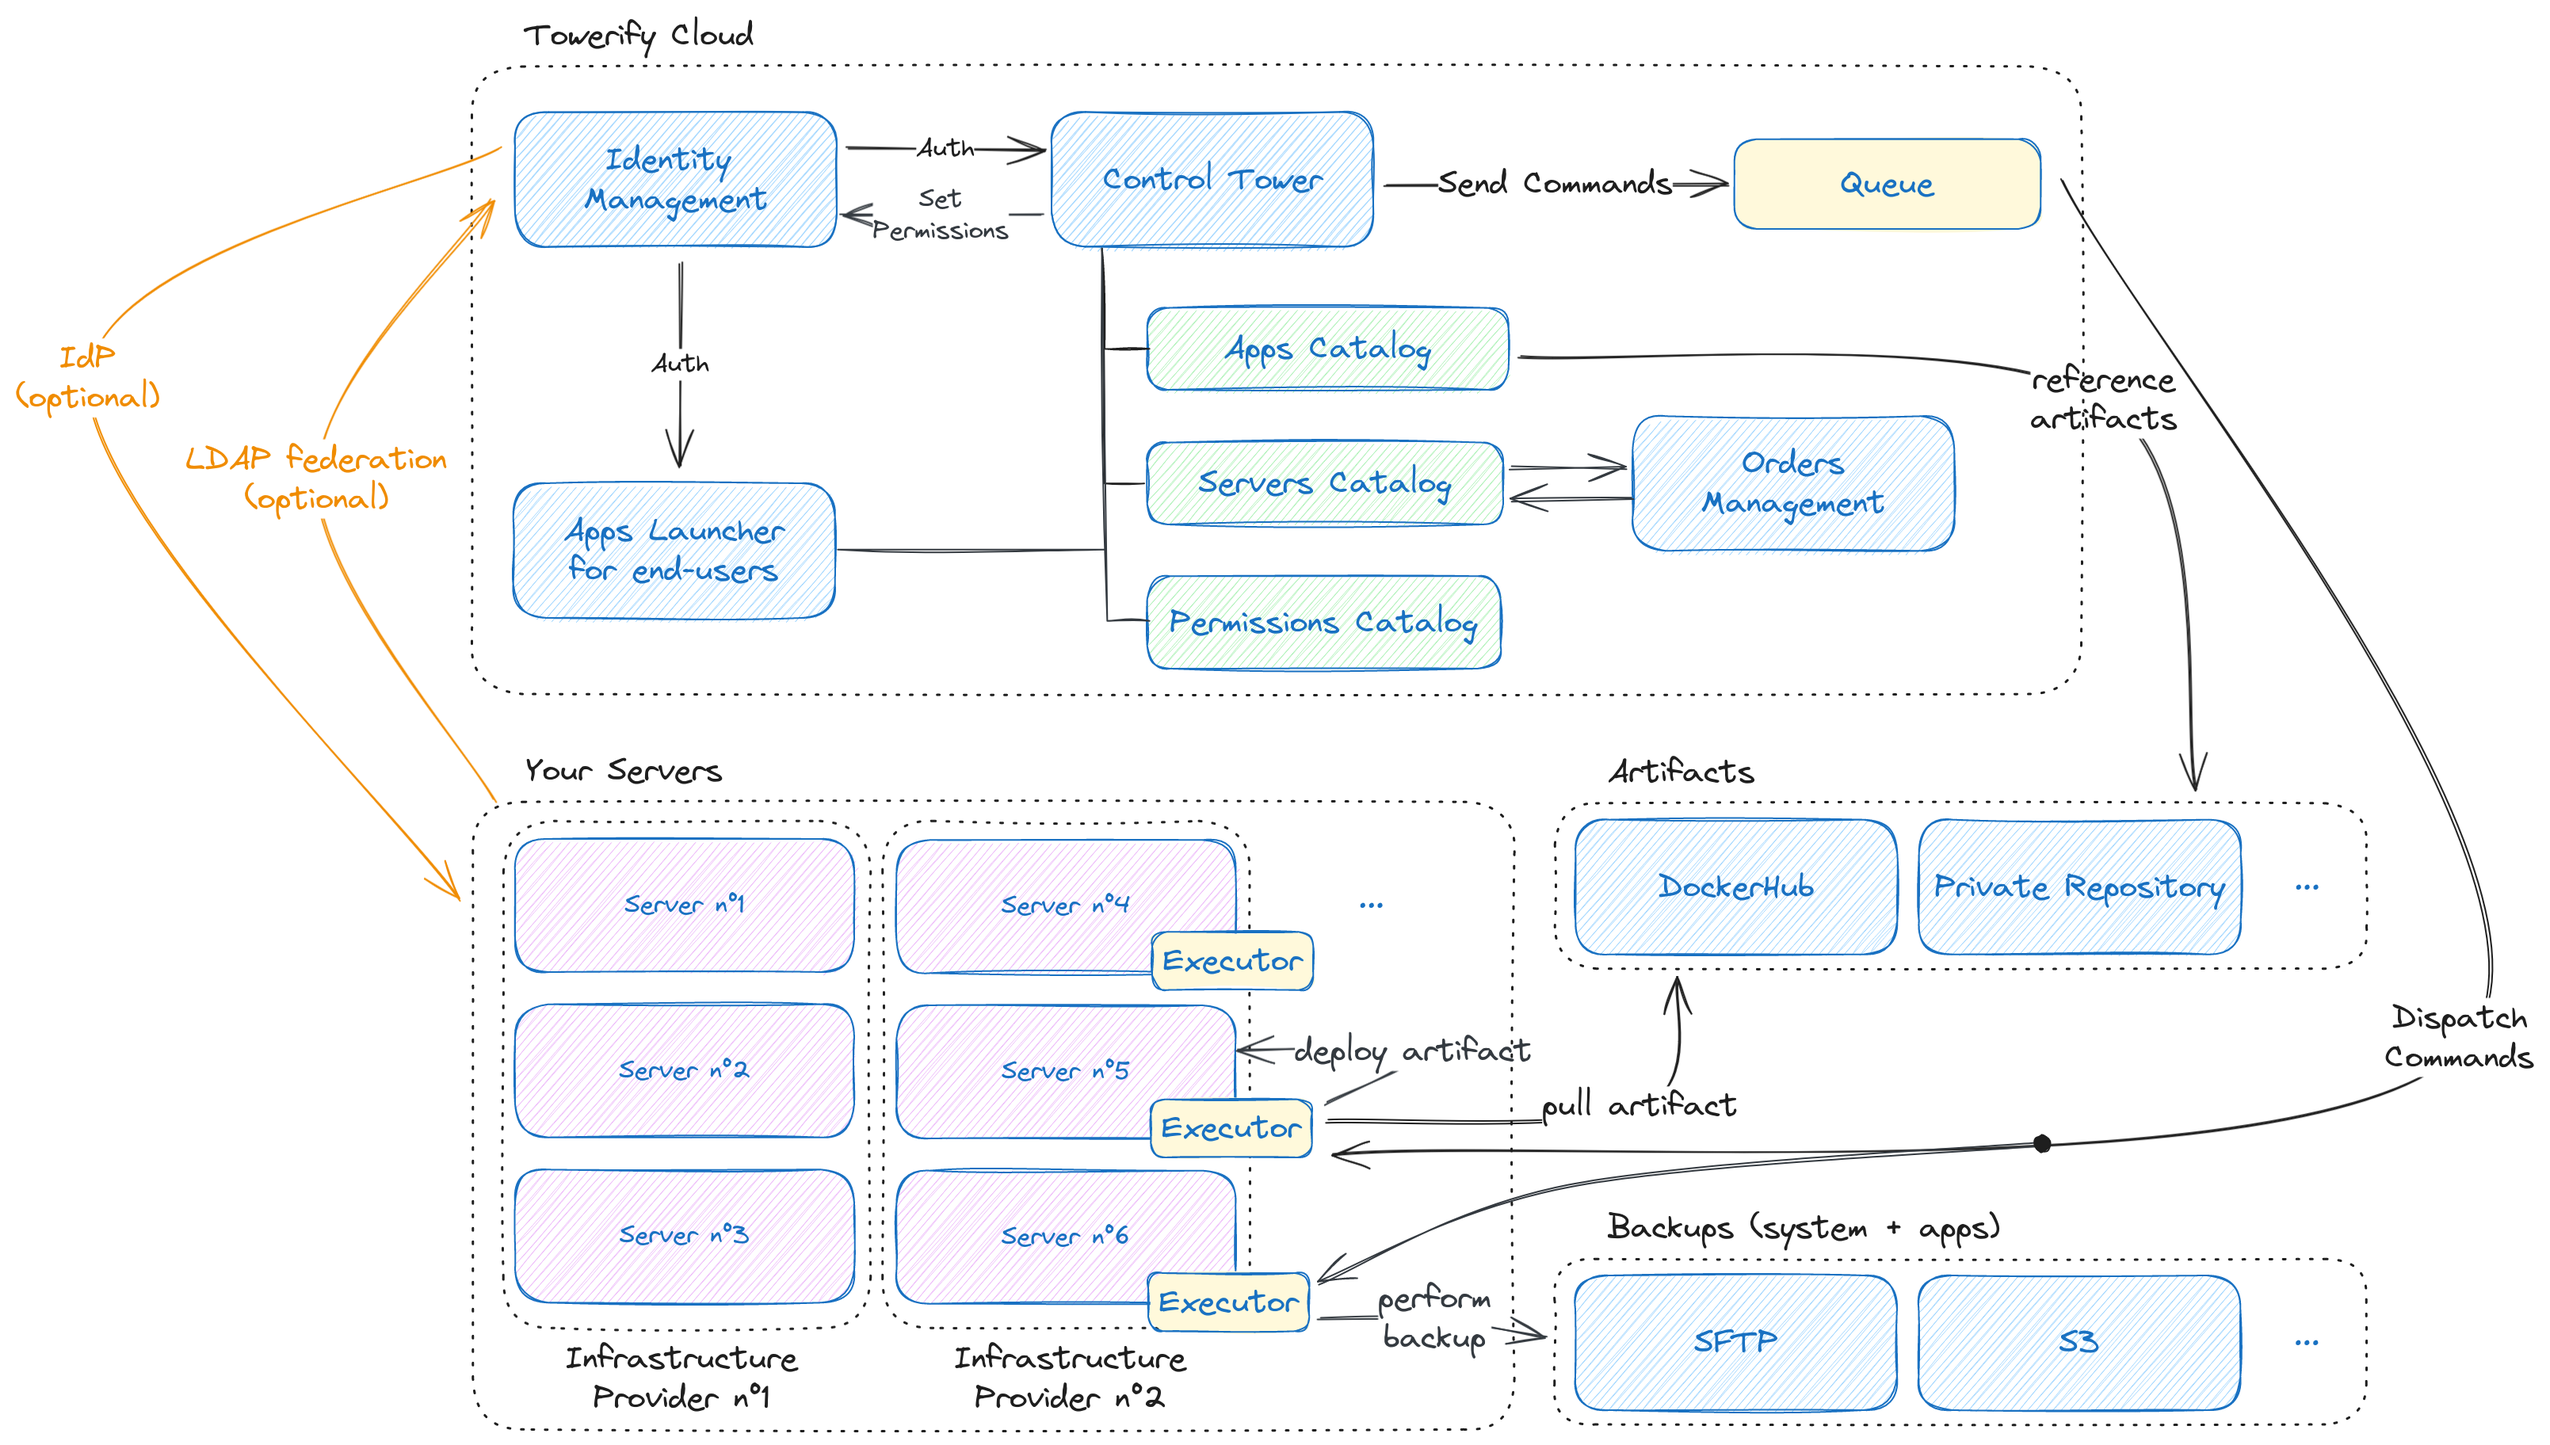
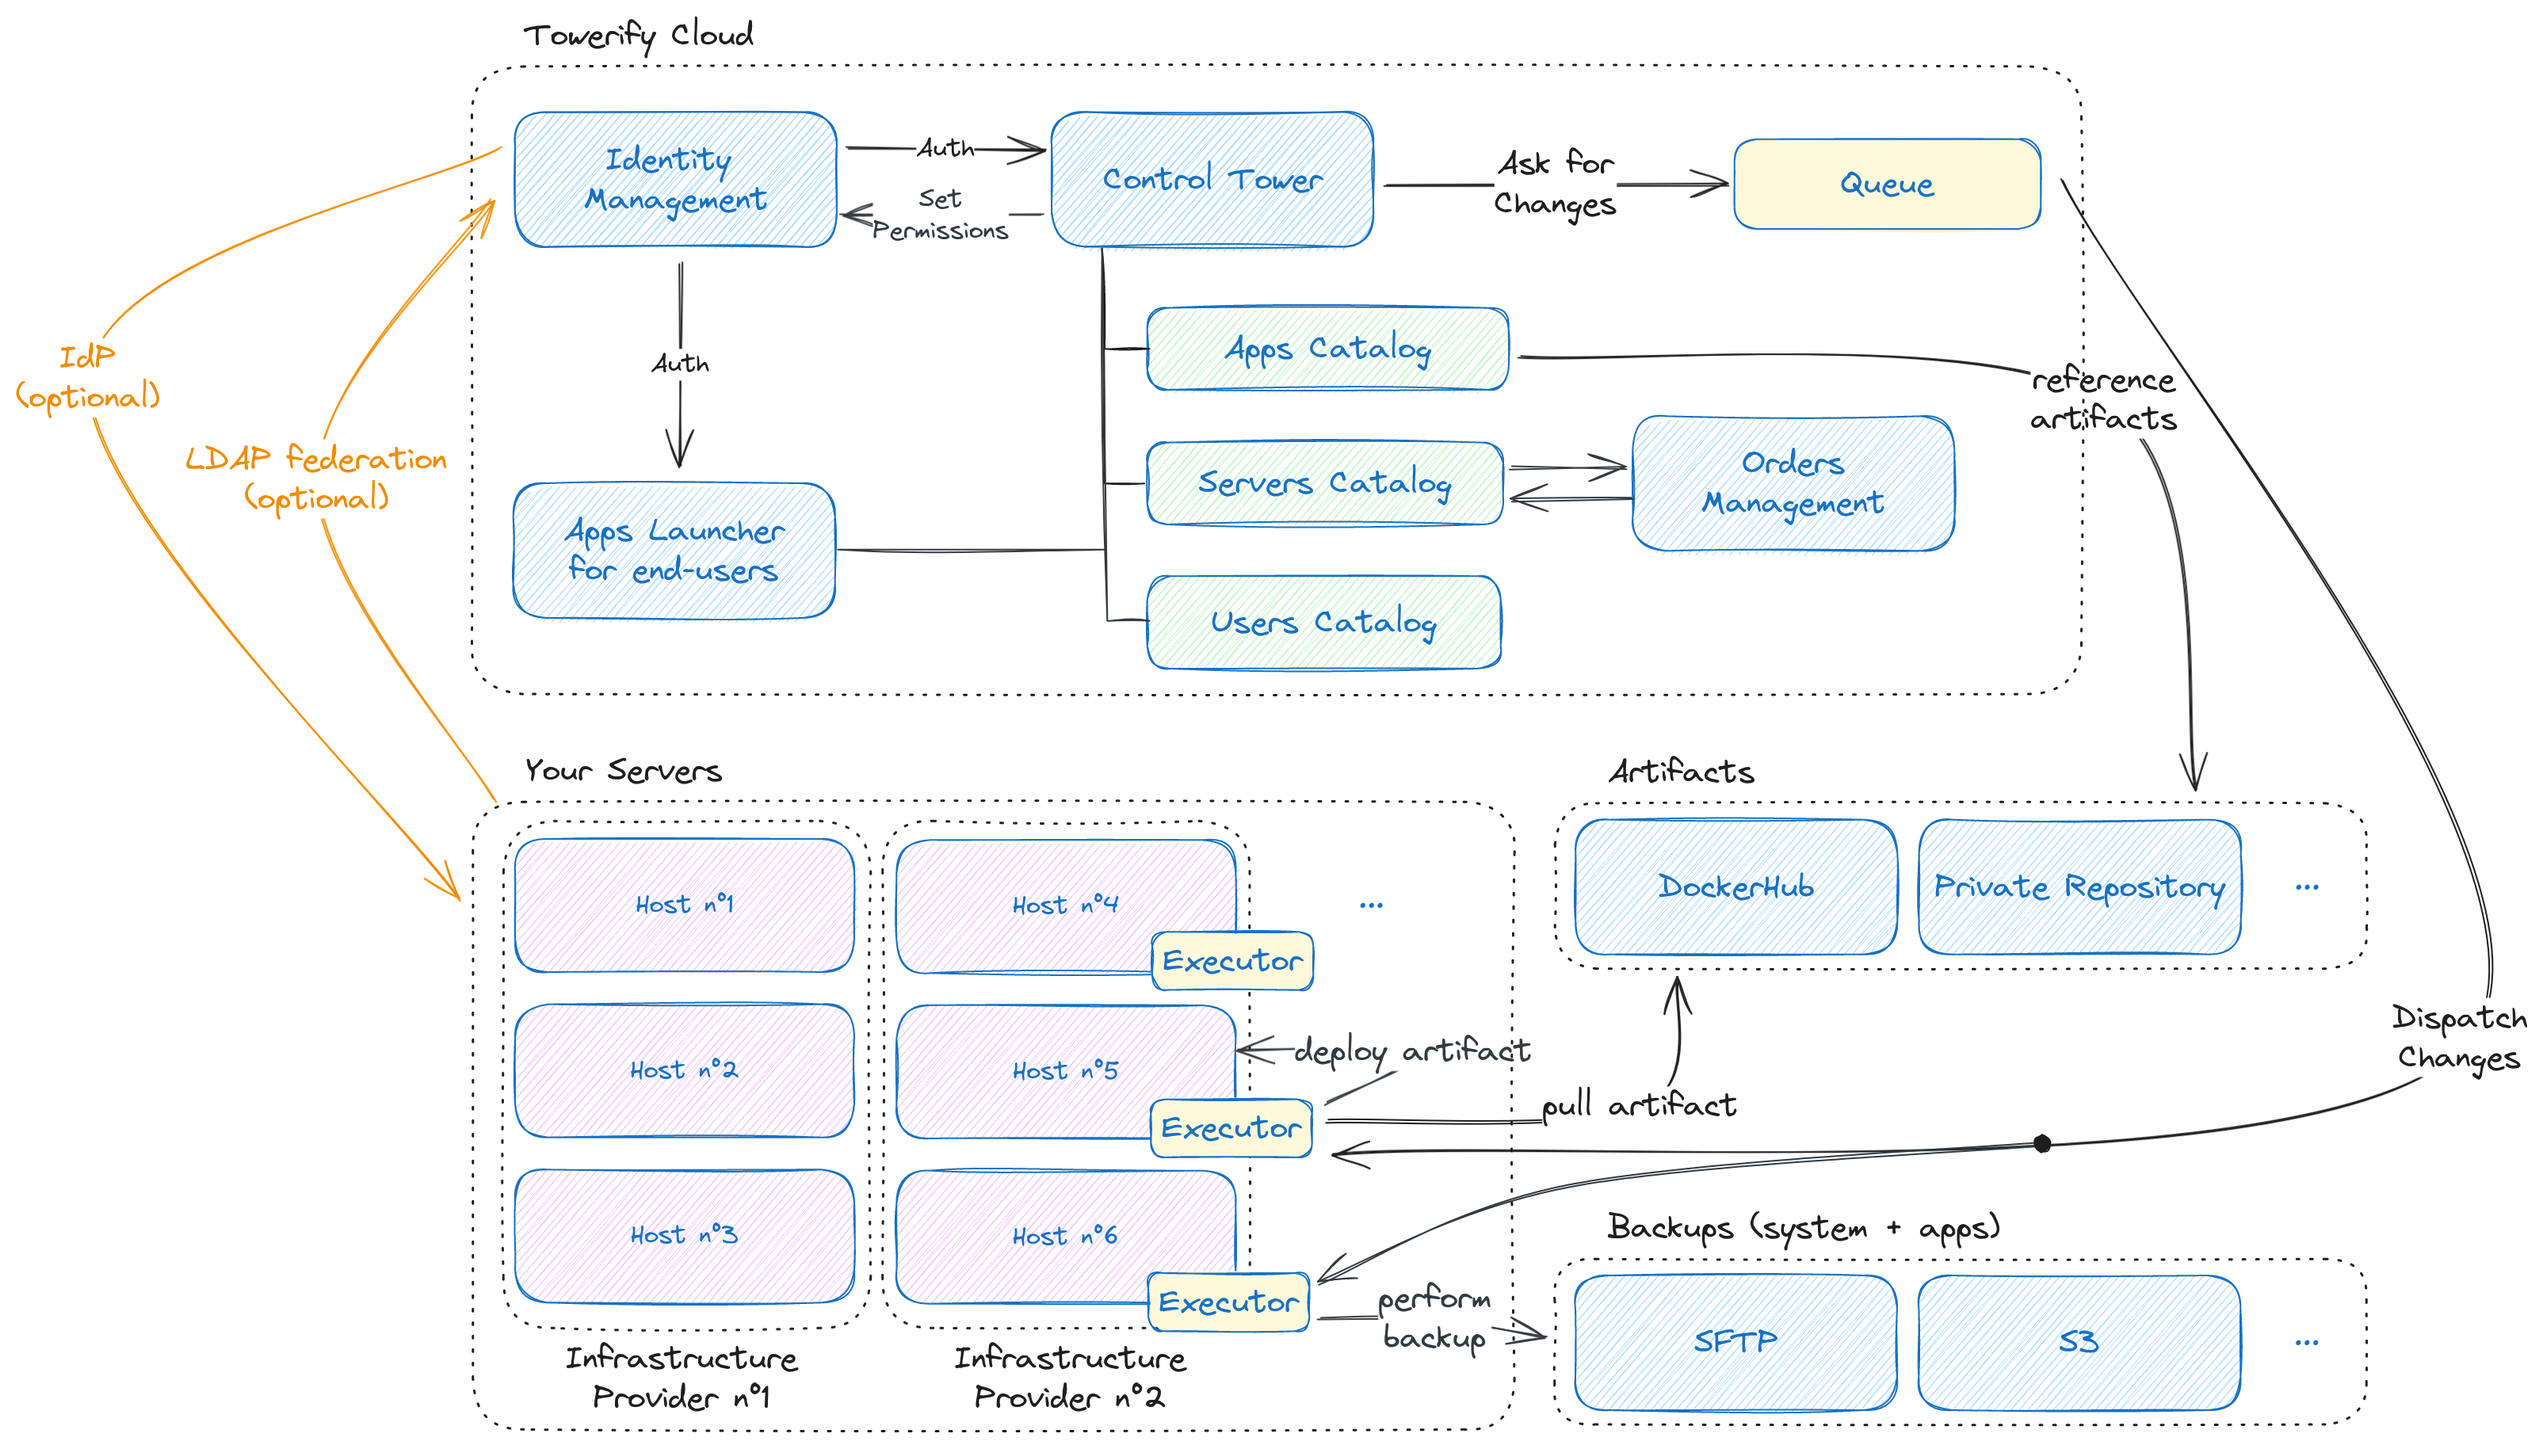
Edit Towerify Cloud 7/n

diff --git a/docs/cloud/how-it-works.md b/docs/cloud/how-it-works.md
@@ -59,10 +59,10 @@ fonctionner.
 Les demandes de changement sont des petits "programmes" décrivant les actions à effectuer sur un hôte pour que celui-ci
 atteigne un état cible.
 
-Les demandes de changement sont émises par un opérateur et placées dans une file d'attente. Cette file d'attente est
-surveillée par une tâche planifiée qui a en charge de choisir la prochaine demande de changement à effectuer et de
-router cette demande vers l'hôte cible. Le choix de la prochaine demande de changement à exécuter est réalisé en
-appliquant le principe "premier arrivé, premier servi" (FIFO).
+Les demandes de changement sont émises par un opérateur de la tour de contrôle et sont placées dans une file d'attente.
+Cette file d'attente est surveillée par une tâche planifiée qui a en charge de choisir la prochaine demande de
+changement à effectuer et de router cette demande vers l'hôte cible. Le choix de la prochaine demande de changement à
+exécuter est réalisé en appliquant le principe "premier arrivé, premier servi" (FIFO).
 
 Les demandes de changement concernant des hôtes différents s'exécutent en parallèle. Cependant, à un instant donné, une
 unique demande de changement est en cours d'exécution sur chaque hôte.
